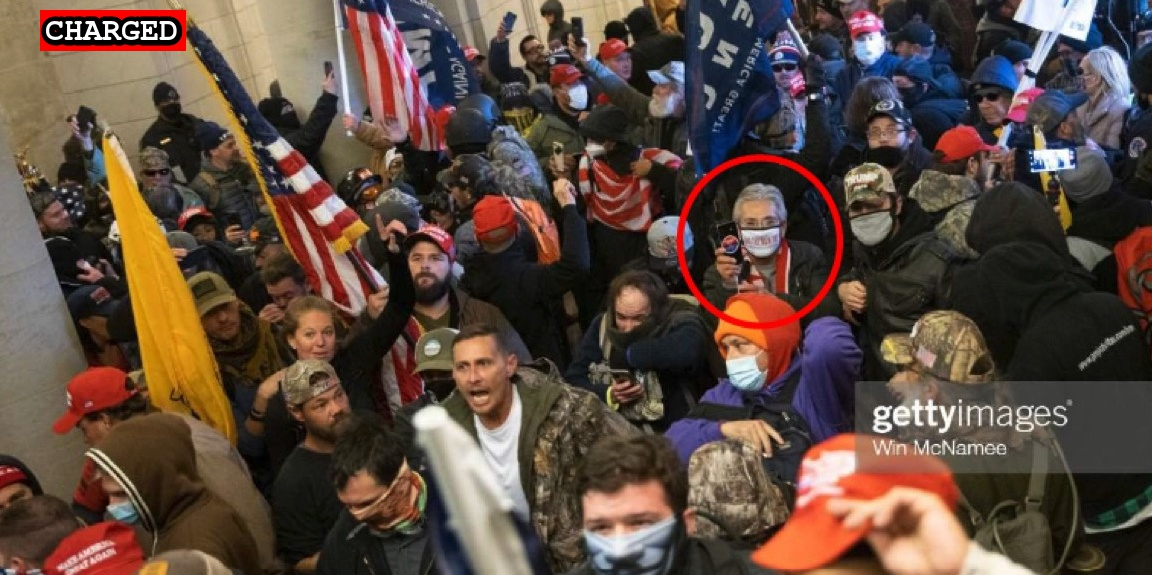
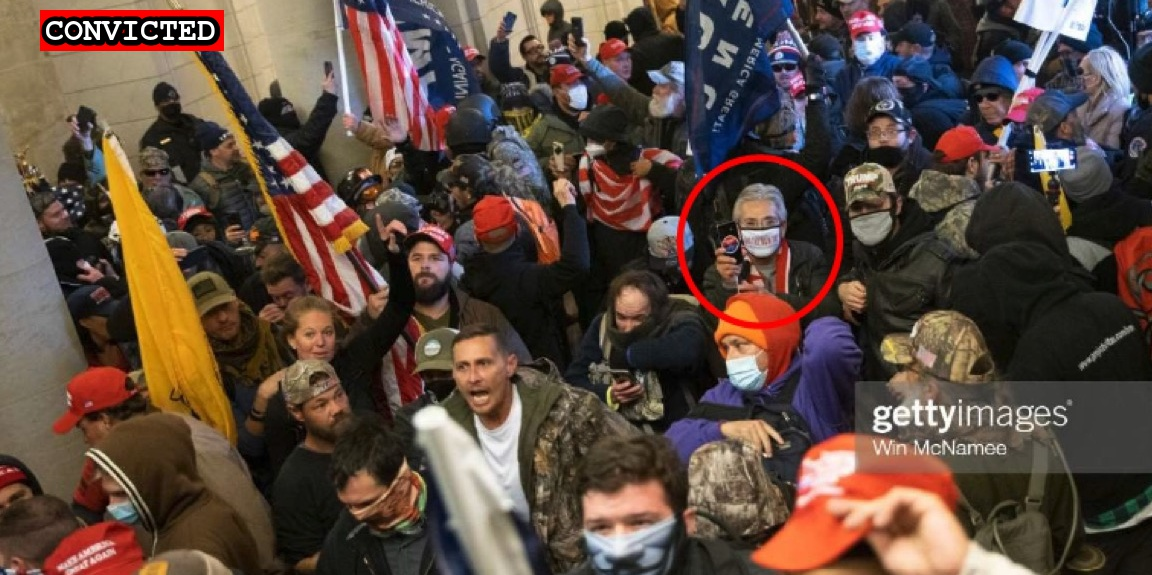
Scavo plea

Changed region(s): [[0.0312, 0.0, 0.2188, 0.0887]]

diff --git a/docs/_suspects/frank-scavo.md b/docs/_suspects/frank-scavo.md
@@ -3,11 +3,11 @@ name: Frank Scavo
 lastName: Scavo
 aka:
 residence: Pennsylvania
-status: Charged
+status: Convicted
 date: 2021-03-24
 charged: 2021-03-24
 indicted:
-convicted:
+convicted: 2021-09-08
 sentenced:
 dismissed:
 deceased:
@@ -31,6 +31,10 @@ published: true
 caseNumber: 1:21-cr-254
 videos:
 charges:
+- code: 18 USC § 5104(e)(2)(G)
+  title: Parading, Demonstrating or Picketing in a Capitol Building
+  url: https://www.law.cornell.edu/uscode/text/40/5104
+  felony: false
 ---
 - [News Report](https://www.timesleader.com/news/1137275/scavo-was-pushed-into-capitol-lawyer-says)
 - [Information](https://www.justice.gov/usao-dc/case-multi-defendant/file/1380551/download)
